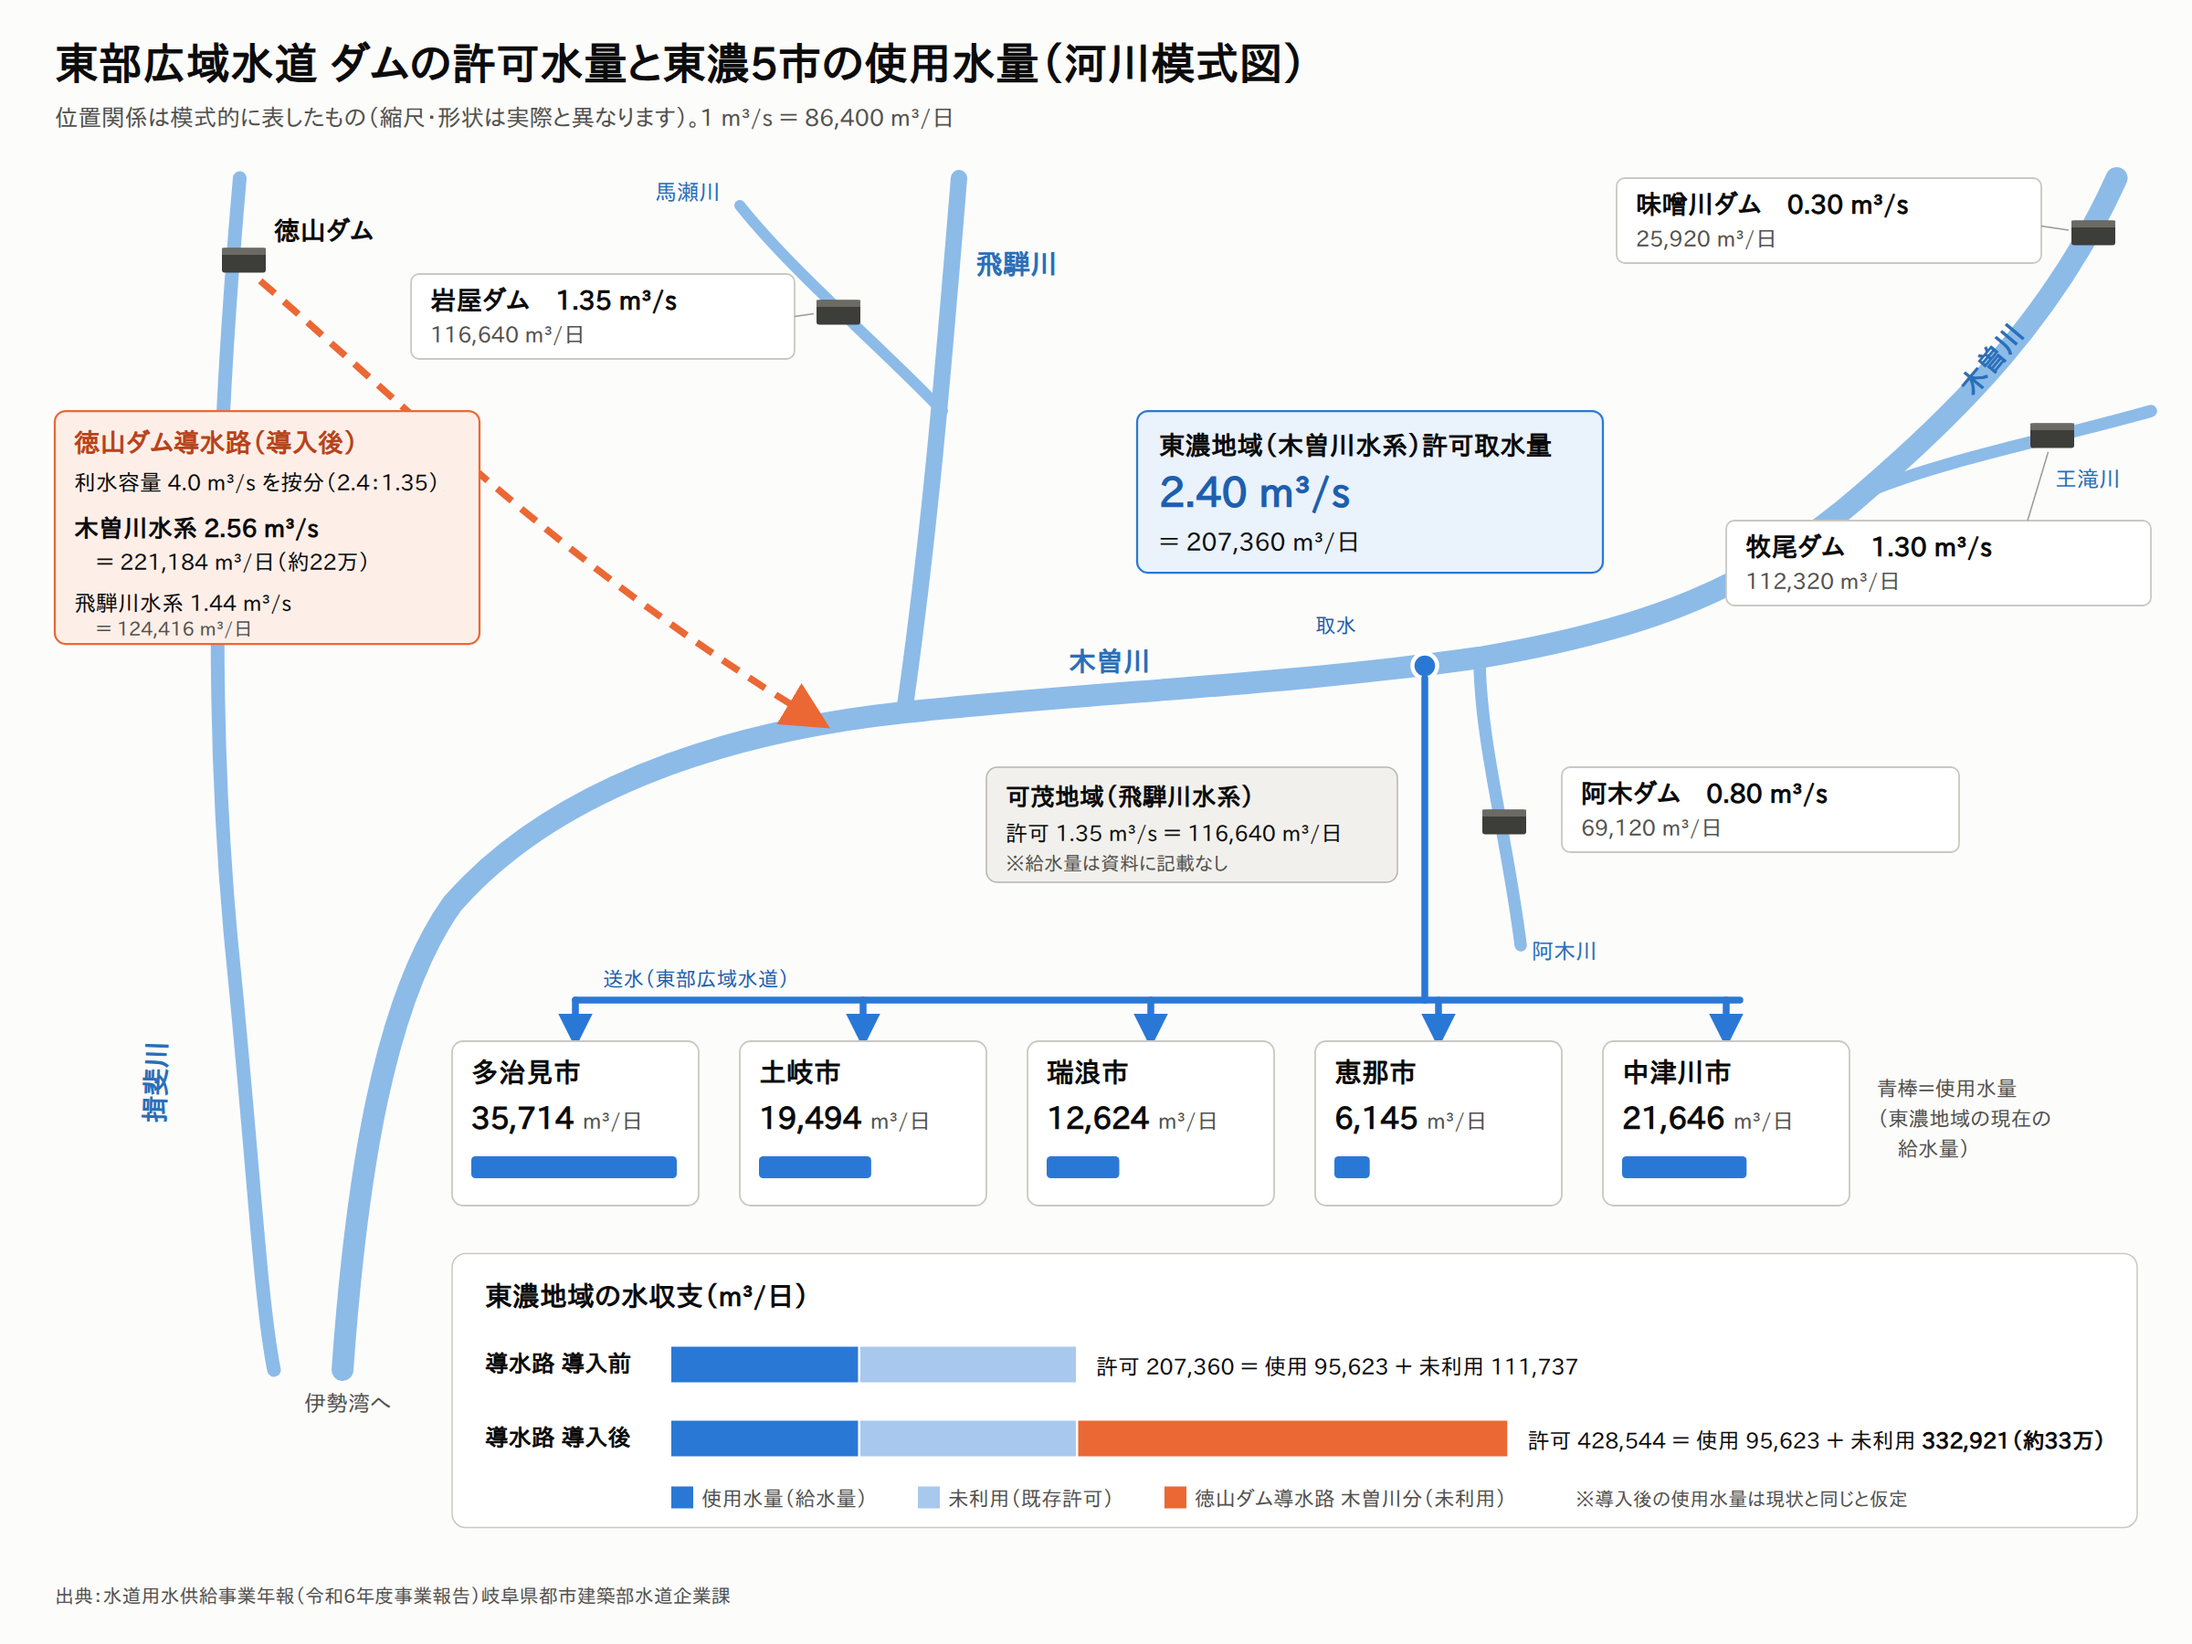
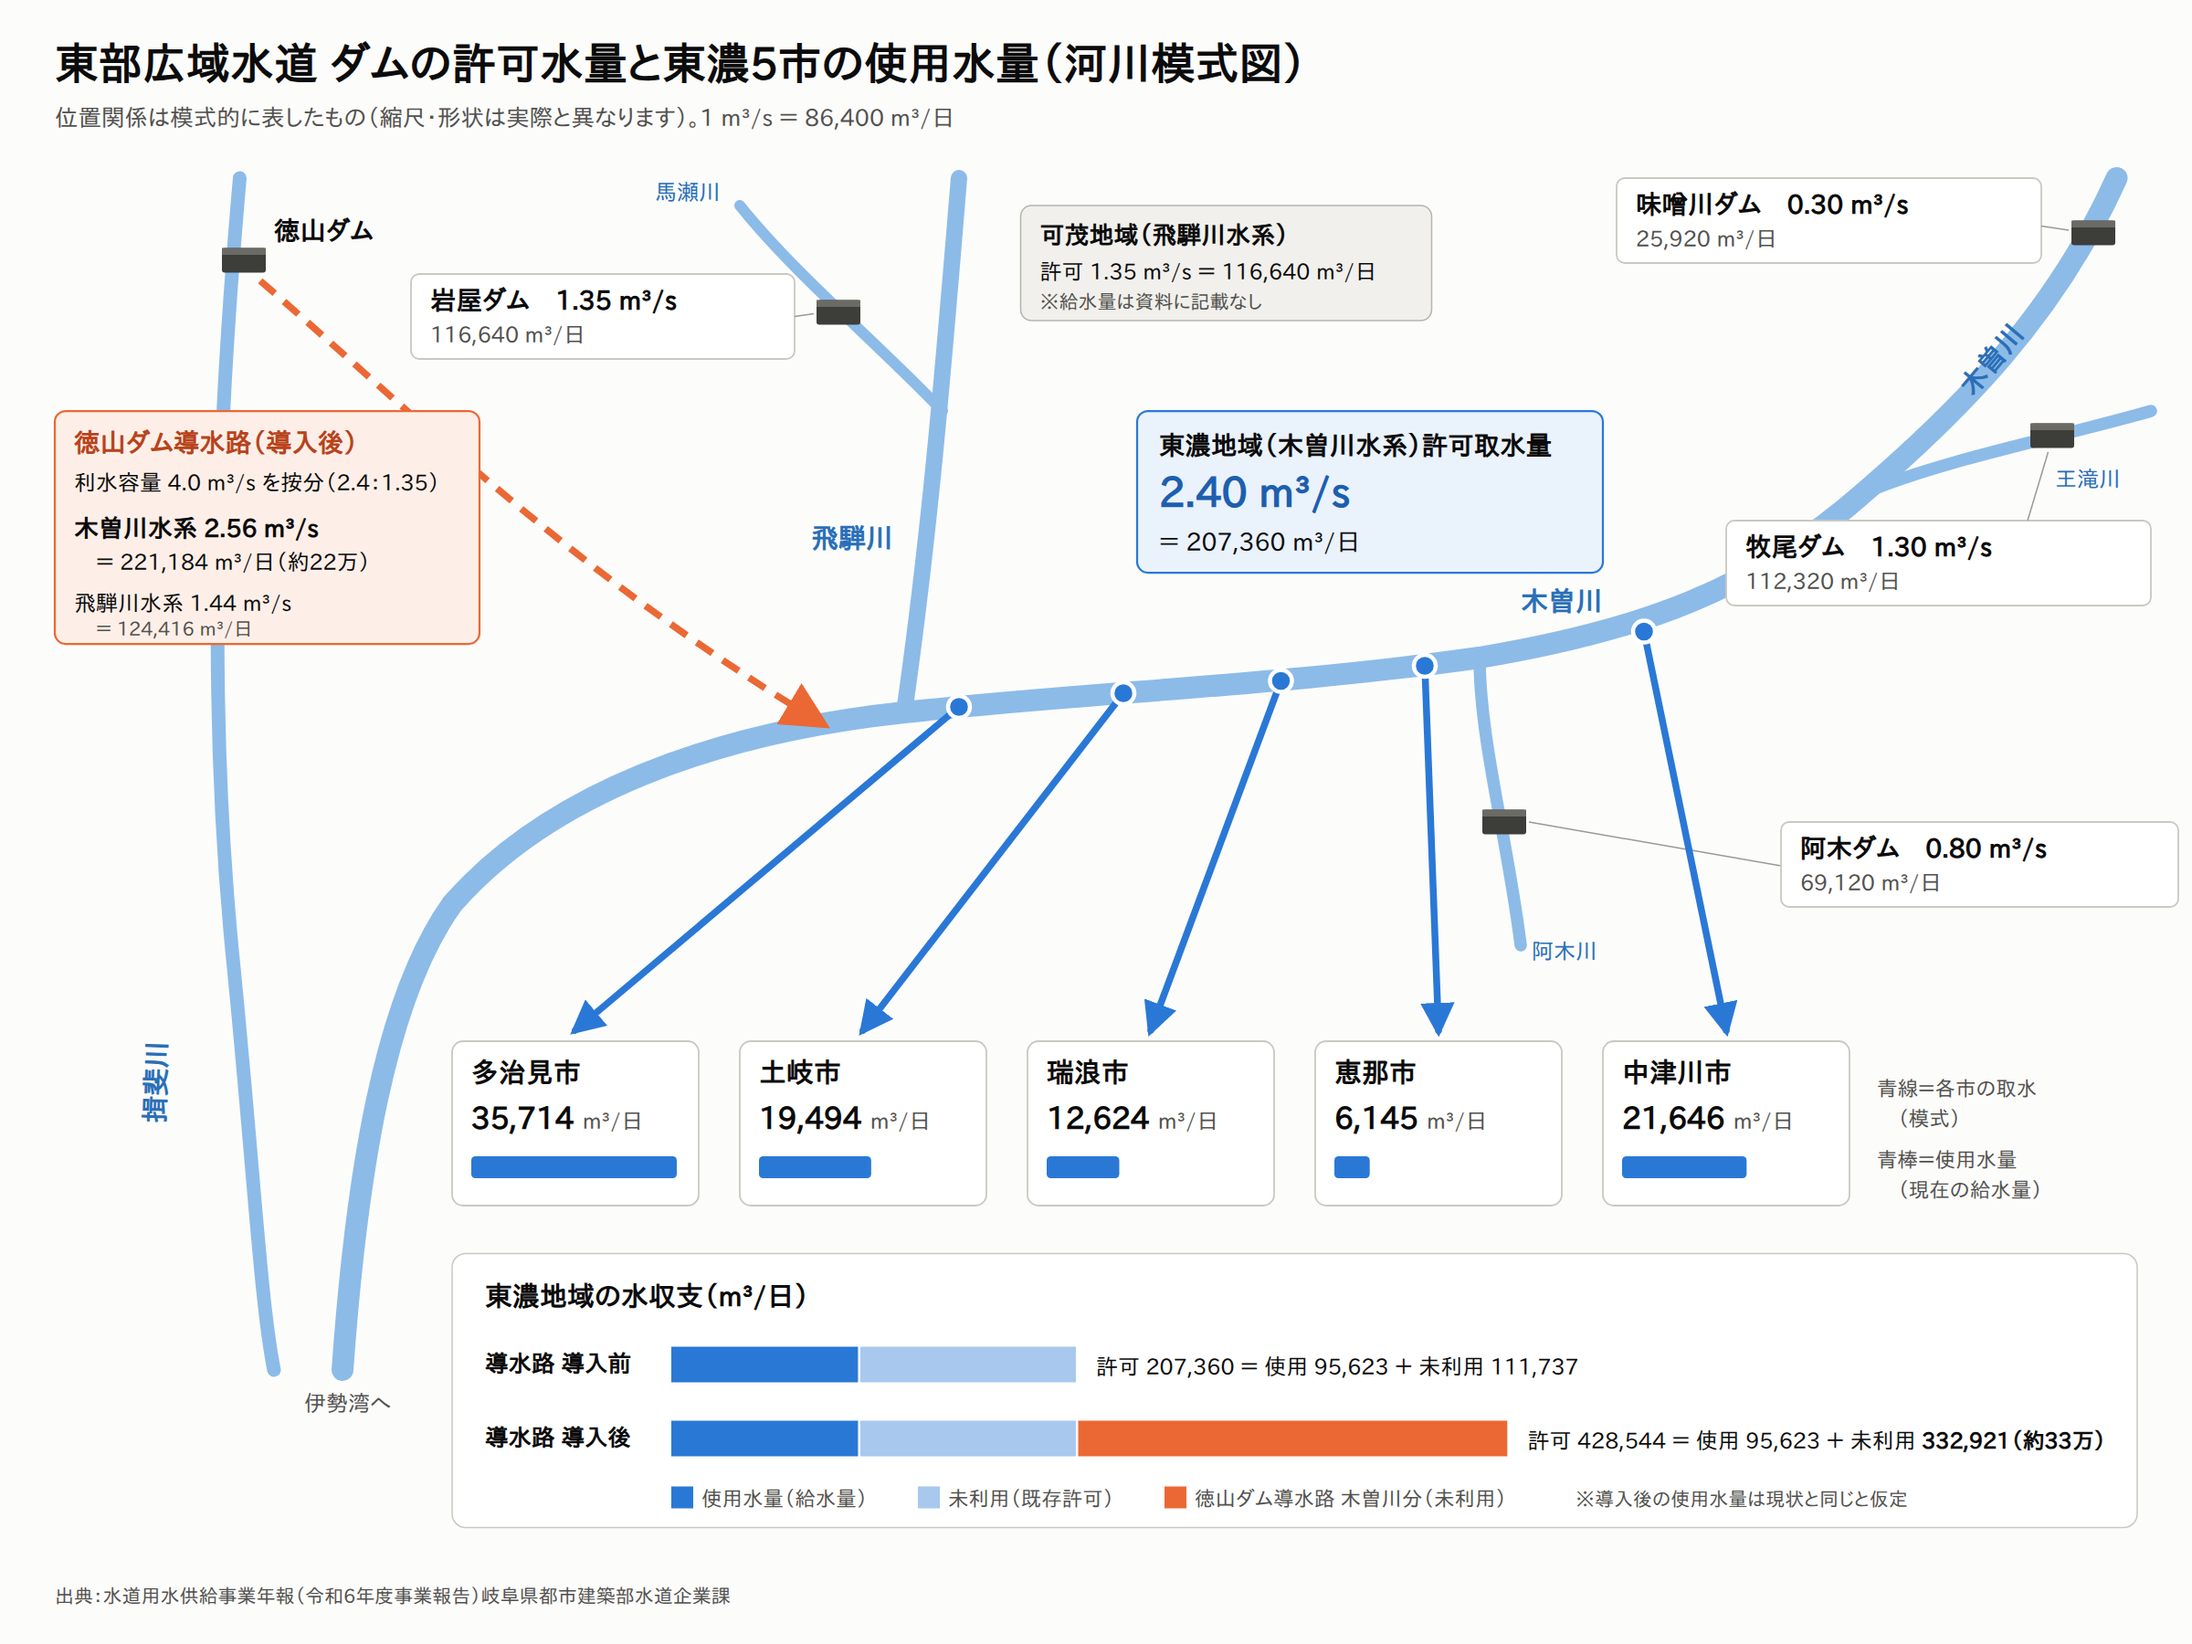
河川模式図: 各市の取水を木曽川から直接とる5本の線で表示
Claude-Session: https://claude.ai/code/session_01V9JZWKcViXj4pxTwgkMvQY

diff --git a/tobu-kouiki-suido/river_map.html b/tobu-kouiki-suido/river_map.html
@@ -28,7 +28,7 @@
   <!-- 木曽川 本川 -->
   <path class="river" stroke-width="16" d="M1545,130 C1500,230 1430,300 1360,360 C1280,430 1200,460 1080,480 C940,500 800,505 660,520 C520,535 400,580 330,660 C280,730 260,860 250,1000"/>
   <text x="1440" y="290" class="rname" transform="rotate(-50 1440 290)">木曽川</text>
-  <text x="780" y="490" class="rname">木曽川</text>
+  <text x="1110" y="446" class="rname">木曽川</text>
   <!-- 王滝川（牧尾ダム） -->
   <path class="river" stroke-width="9" d="M1570,300 C1500,320 1420,335 1360,360"/>
   <text x="1500" y="355" font-size="16" fill="#2a6fb8">王滝川</text>
@@ -37,7 +37,7 @@
   <text x="1118" y="700" font-size="16" fill="#2a6fb8">阿木川</text>
   <!-- 飛騨川 -->
   <path class="river" stroke-width="12" d="M700,130 C690,250 680,380 660,520"/>
-  <text x="712" y="200" class="rname">飛騨川</text>
+  <text x="592" y="400" class="rname">飛騨川</text>
   <!-- 馬瀬川（岩屋ダム） -->
   <path class="river" stroke-width="8" d="M540,150 C580,200 640,250 688,300"/>
   <text x="478" y="146" font-size="16" fill="#2a6fb8">馬瀬川</text>
@@ -61,7 +61,8 @@
   <line x1="1480" y1="380" x2="1495" y2="330" stroke="#9a9994"/>
 
   <use href="#dam" x="1098" y="600"/>
-  <g transform="translate(1140,560)">
+  <line x1="1116" y1="600" x2="1300" y2="632" stroke="#9a9994"/>
+  <g transform="translate(1300,600)">
     <rect class="box" width="290" height="62" rx="6"/>
     <text x="14" y="26" font-size="19" font-weight="bold" class="t">阿木ダム　0.80 m³/s</text>
     <text x="14" y="50" font-size="16" class="s">69,120 m³/日</text>
@@ -83,7 +84,7 @@
     <text x="14" y="50" font-size="16" class="s">116,640 m³/日</text>
   </g>
   <line x1="580" y1="231" x2="594" y2="229" stroke="#9a9994"/>
-  <g transform="translate(720,560)">
+  <g transform="translate(745,150)">
     <rect width="300" height="84" rx="8" fill="#f1f0ec" stroke="#b5b4ae"/>
     <text x="14" y="28" font-size="18" font-weight="bold" class="t">可茂地域（飛騨川水系）</text>
     <text x="14" y="54" font-size="16" class="t">許可 1.35 m³/s ＝ 116,640 m³/日</text>
@@ -104,18 +105,22 @@
     <text x="30" y="164" font-size="14" class="s">＝ 124,416 m³/日</text>
   </g>
 
-  <!-- ===== 送水（取水点 → 5市） ===== -->
-  <circle cx="1040" cy="486" r="9" fill="#2a78d6" stroke="#fff" stroke-width="3"/>
-  <text x="960" y="462" font-size="15" fill="#1d5fae">取水</text>
-  <path class="pipe" d="M1040,495 L1040,730 L420,730"/>
-  <path class="pipe" d="M1040,730 L1270,730"/>
-  <text x="440" y="720" font-size="15" fill="#1d5fae">送水（東部広域水道）</text>
+  <!-- ===== 各市の取水（木曽川から直接・模式） ===== -->
+  <path class="pipe" d="M700,516 L420,752" marker-end="url(#arrB)"/>
+  <path class="pipe" d="M820,506 L630,752" marker-end="url(#arrB)"/>
+  <path class="pipe" d="M935,497 L840,752" marker-end="url(#arrB)"/>
+  <path class="pipe" d="M1040,486 L1050,752" marker-end="url(#arrB)"/>
+  <path class="pipe" d="M1200,461 L1260,752" marker-end="url(#arrB)"/>
+  <circle cx="700" cy="516" r="8" fill="#2a78d6" stroke="#fff" stroke-width="3"/>
+  <circle cx="820" cy="506" r="8" fill="#2a78d6" stroke="#fff" stroke-width="3"/>
+  <circle cx="935" cy="497" r="8" fill="#2a78d6" stroke="#fff" stroke-width="3"/>
+  <circle cx="1040" cy="486" r="8" fill="#2a78d6" stroke="#fff" stroke-width="3"/>
+  <circle cx="1200" cy="461" r="8" fill="#2a78d6" stroke="#fff" stroke-width="3"/>
 
   <!-- 市（西→東）　バー：35,714 = 150px -->
   <g font-size="16">
     <!-- 多治見 -->
     <g transform="translate(330,760)">
-      <path class="pipe" d="M90,-30 L90,0" marker-end="url(#arrB)"/>
       <rect class="box" width="180" height="120" rx="8"/>
       <text x="14" y="30" font-size="20" font-weight="bold" class="t">多治見市</text>
       <text x="14" y="64" font-size="22" font-weight="bold" class="t">35,714<tspan font-size="16" font-weight="normal" fill="#52514e" dx="6">m³/日</tspan></text>
@@ -123,7 +128,6 @@
     </g>
     <!-- 土岐 -->
     <g transform="translate(540,760)">
-      <path class="pipe" d="M90,-30 L90,0" marker-end="url(#arrB)"/>
       <rect class="box" width="180" height="120" rx="8"/>
       <text x="14" y="30" font-size="20" font-weight="bold" class="t">土岐市</text>
       <text x="14" y="64" font-size="22" font-weight="bold" class="t">19,494<tspan font-size="16" font-weight="normal" fill="#52514e" dx="6">m³/日</tspan></text>
@@ -131,7 +135,6 @@
     </g>
     <!-- 瑞浪 -->
     <g transform="translate(750,760)">
-      <path class="pipe" d="M90,-30 L90,0" marker-end="url(#arrB)"/>
       <rect class="box" width="180" height="120" rx="8"/>
       <text x="14" y="30" font-size="20" font-weight="bold" class="t">瑞浪市</text>
       <text x="14" y="64" font-size="22" font-weight="bold" class="t">12,624<tspan font-size="16" font-weight="normal" fill="#52514e" dx="6">m³/日</tspan></text>
@@ -139,7 +142,6 @@
     </g>
     <!-- 恵那 -->
     <g transform="translate(960,760)">
-      <path class="pipe" d="M90,-30 L90,0" marker-end="url(#arrB)"/>
       <rect class="box" width="180" height="120" rx="8"/>
       <text x="14" y="30" font-size="20" font-weight="bold" class="t">恵那市</text>
       <text x="14" y="64" font-size="22" font-weight="bold" class="t">6,145<tspan font-size="16" font-weight="normal" fill="#52514e" dx="6">m³/日</tspan></text>
@@ -147,16 +149,16 @@
     </g>
     <!-- 中津川 -->
     <g transform="translate(1170,760)">
-      <path class="pipe" d="M90,-30 L90,0" marker-end="url(#arrB)"/>
       <rect class="box" width="180" height="120" rx="8"/>
       <text x="14" y="30" font-size="20" font-weight="bold" class="t">中津川市</text>
       <text x="14" y="64" font-size="22" font-weight="bold" class="t">21,646<tspan font-size="16" font-weight="normal" fill="#52514e" dx="6">m³/日</tspan></text>
       <rect x="14" y="84" width="90.9" height="16" rx="3" fill="#2a78d6"/>
     </g>
   </g>
-  <text x="1370" y="800" font-size="15" class="s">青棒＝使用水量</text>
-  <text x="1370" y="822" font-size="15" class="s">（東濃地域の現在の</text>
-  <text x="1370" y="844" font-size="15" class="s">　給水量）</text>
+  <text x="1370" y="800" font-size="15" class="s">青線＝各市の取水</text>
+  <text x="1370" y="822" font-size="15" class="s">　（模式）</text>
+  <text x="1370" y="852" font-size="15" class="s">青棒＝使用水量</text>
+  <text x="1370" y="874" font-size="15" class="s">　（現在の給水量）</text>
 
   <!-- ===== 集計 ===== -->
   <g transform="translate(330,915)">
